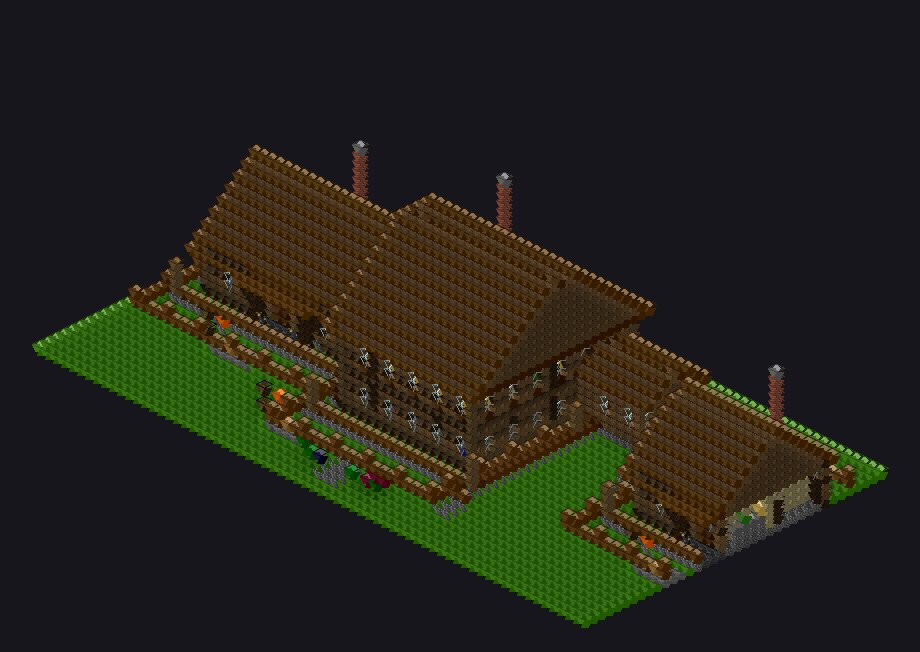
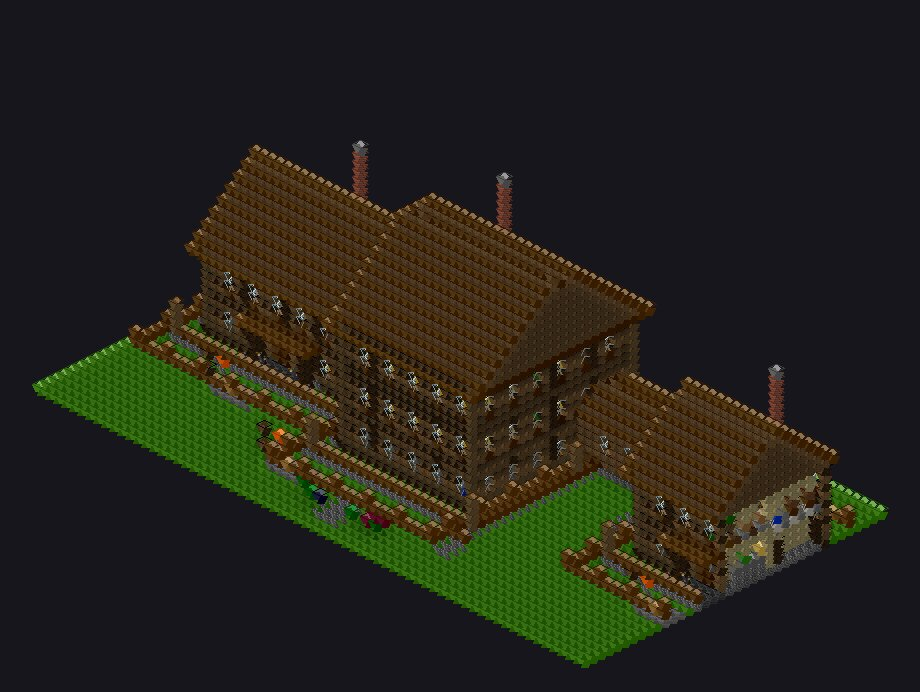
fix: Newton Victorian — 3 floors, aspect ratio clamp, large-home sizing
- estimateStoriesFromFootprint uses ceil for sqft >= 5000 (OSM bounding
  boxes overestimate footprint vs buildable area)
- minFloors: 3 for sqft >= 6000, 2 for sqft >= 3000 single-family
- Aspect ratio clamped to max 2:1 to avoid elongated longhouse shapes
- Added 5000-10000 sqft dimension tier (maxW/maxL 55) for large homes
- Newton now generates rustic 3f 69x25x38 (was rustic 2f 69x20x38)

— Opus 4.6

Changed region(s): [[0.0304, 0.184, 0.9739, 0.9816]]

diff --git a/src/gen/address-pipeline.ts b/src/gen/address-pipeline.ts
@@ -341,7 +341,11 @@ export function estimateStoriesFromFootprint(
   if (footprintSqm <= 0) return 2; // fallback
   const totalSqm = sqft / 10.76; // sqft to sqm
   const rawFloors = totalSqm / footprintSqm;
-  return Math.max(1, Math.min(100, Math.round(rawFloors)));
+  // Use ceil for large homes — OSM bounding boxes overestimate the footprint
+  // area vs actual buildable area (Victorian wings, setbacks, irregular shapes),
+  // so sqft/footprint underestimates floor count
+  const rounding = sqft >= 5000 ? Math.ceil : Math.round;
+  return Math.max(1, Math.min(100, rounding(rawFloors)));
 }
 
 // ─── Roof Mapping ───────────────────────────────────────────────────────────
@@ -595,6 +599,7 @@ function getDimensionLimits(propertyType: string, sqft: number): DimensionLimits
   if (pt === 'condo')           return { minW: 10, maxW: 50, minL: 10, maxL: 60 };
   if (pt === 'townhouse')       return { minW: 8,  maxW: 20, minL: 10, maxL: 50 };
   if (sqft > 10000)             return { minW: 15, maxW: 80, minL: 15, maxL: 80 }; // Mansions/estates
+  if (sqft > 5000)              return { minW: 12, maxW: 55, minL: 12, maxL: 55 }; // Large homes
   return                                { minW: 10, maxW: 45, minL: 10, maxL: 45 }; // Standard residential
 }
 
@@ -623,7 +628,12 @@ export function convertToGenerationOptions(prop: PropertyData): GenerationOption
   const maxFloors = isMultiUnit(prop.propertyType) ? 8
     : prop.sqft > 10000 ? 5   // large mansions (e.g. Winchester)
     : 4;                        // standard single-family
-  const floors = Math.max(1, Math.min(maxFloors, prop.stories));
+  // Minimum floors for large single-family — a 5000+ sqft house is always 2+ stories,
+  // and 6000+ sqft is virtually always 3 stories (Victorian estates, colonials, etc.)
+  const minFloors = !isMultiUnit(prop.propertyType) && prop.sqft >= 6000 ? 3
+    : !isMultiUnit(prop.propertyType) && prop.sqft >= 3000 ? 2
+    : 1;
+  const floors = Math.max(minFloors, Math.min(maxFloors, prop.stories));
 
   // ── Dimensions ────────────────────────────────────────────────────
   // Priority: OSM footprint (real) > sqft estimate
@@ -644,6 +654,15 @@ export function convertToGenerationOptions(prop: PropertyData): GenerationOption
   const limits = getDimensionLimits(prop.propertyType, prop.sqft);
   width = Math.max(limits.minW, Math.min(limits.maxW, width));
   length = Math.max(limits.minL, Math.min(limits.maxL, length));
+
+  // Clamp aspect ratio to max 2:1 to avoid elongated "longhouse" shapes.
+  // Real residential buildings rarely exceed 2:1 aspect ratio.
+  const ratio = width / length;
+  if (ratio > 2) {
+    width = Math.round(length * 2);
+  } else if (ratio < 0.5) {
+    length = Math.round(width * 2);
+  }
 
   // ── Rooms ─────────────────────────────────────────────────────────
   const rooms: RoomType[] = ['foyer', 'living', 'kitchen', 'dining'];

diff --git a/web/public/comparison/index.html b/web/public/comparison/index.html
@@ -260,10 +260,10 @@ const LOCATIONS = {
     label: 'Newton',
     address: '240 Highland St, Newton, MA 02465',
     api: {
-      style: 'rustic', floors: 2, grid: '69\u00d720\u00d738', blocks: '11,204',
+      style: 'rustic', floors: 3, grid: '69\u00d725\u00d738', blocks: '13,425',
       sqft: '9,094', beds: 9, baths: 5, year: '? (uncertain)',
       sources: 'Parcl + OSM + Mapillary',
-      notes: 'Year uncertain \u2014 rustic fallback, OSM 17\u00d721 footprint'
+      notes: 'Year uncertain \u2014 rustic 3f Victorian, OSM 17\u00d721 footprint'
     },
     noapi: {
       style: 'fantasy', floors: 2, grid: '78\u00d720\u00d740', blocks: '15,190',
@@ -273,11 +273,11 @@ const LOCATIONS = {
     views: {
       exterior: { api: 'newton-api_exterior.jpg', noapi: 'newton-noapi_exterior.jpg' },
       cutaway: {
-        api: [0,1].map(i => `newton-api_cutaway_${i}.jpg`),
+        api: [0,1,2].map(i => `newton-api_cutaway_${i}.jpg`),
         noapi: [0,1,2,3].map(i => `newton-noapi_cutaway_${i}.jpg`),
       },
       floor: {
-        api: [0,1].map(i => `newton-api_floor_${i}.jpg`),
+        api: [0,1,2].map(i => `newton-api_floor_${i}.jpg`),
         noapi: [0,1,2,3].map(i => `newton-noapi_floor_${i}.jpg`),
       },
     },
